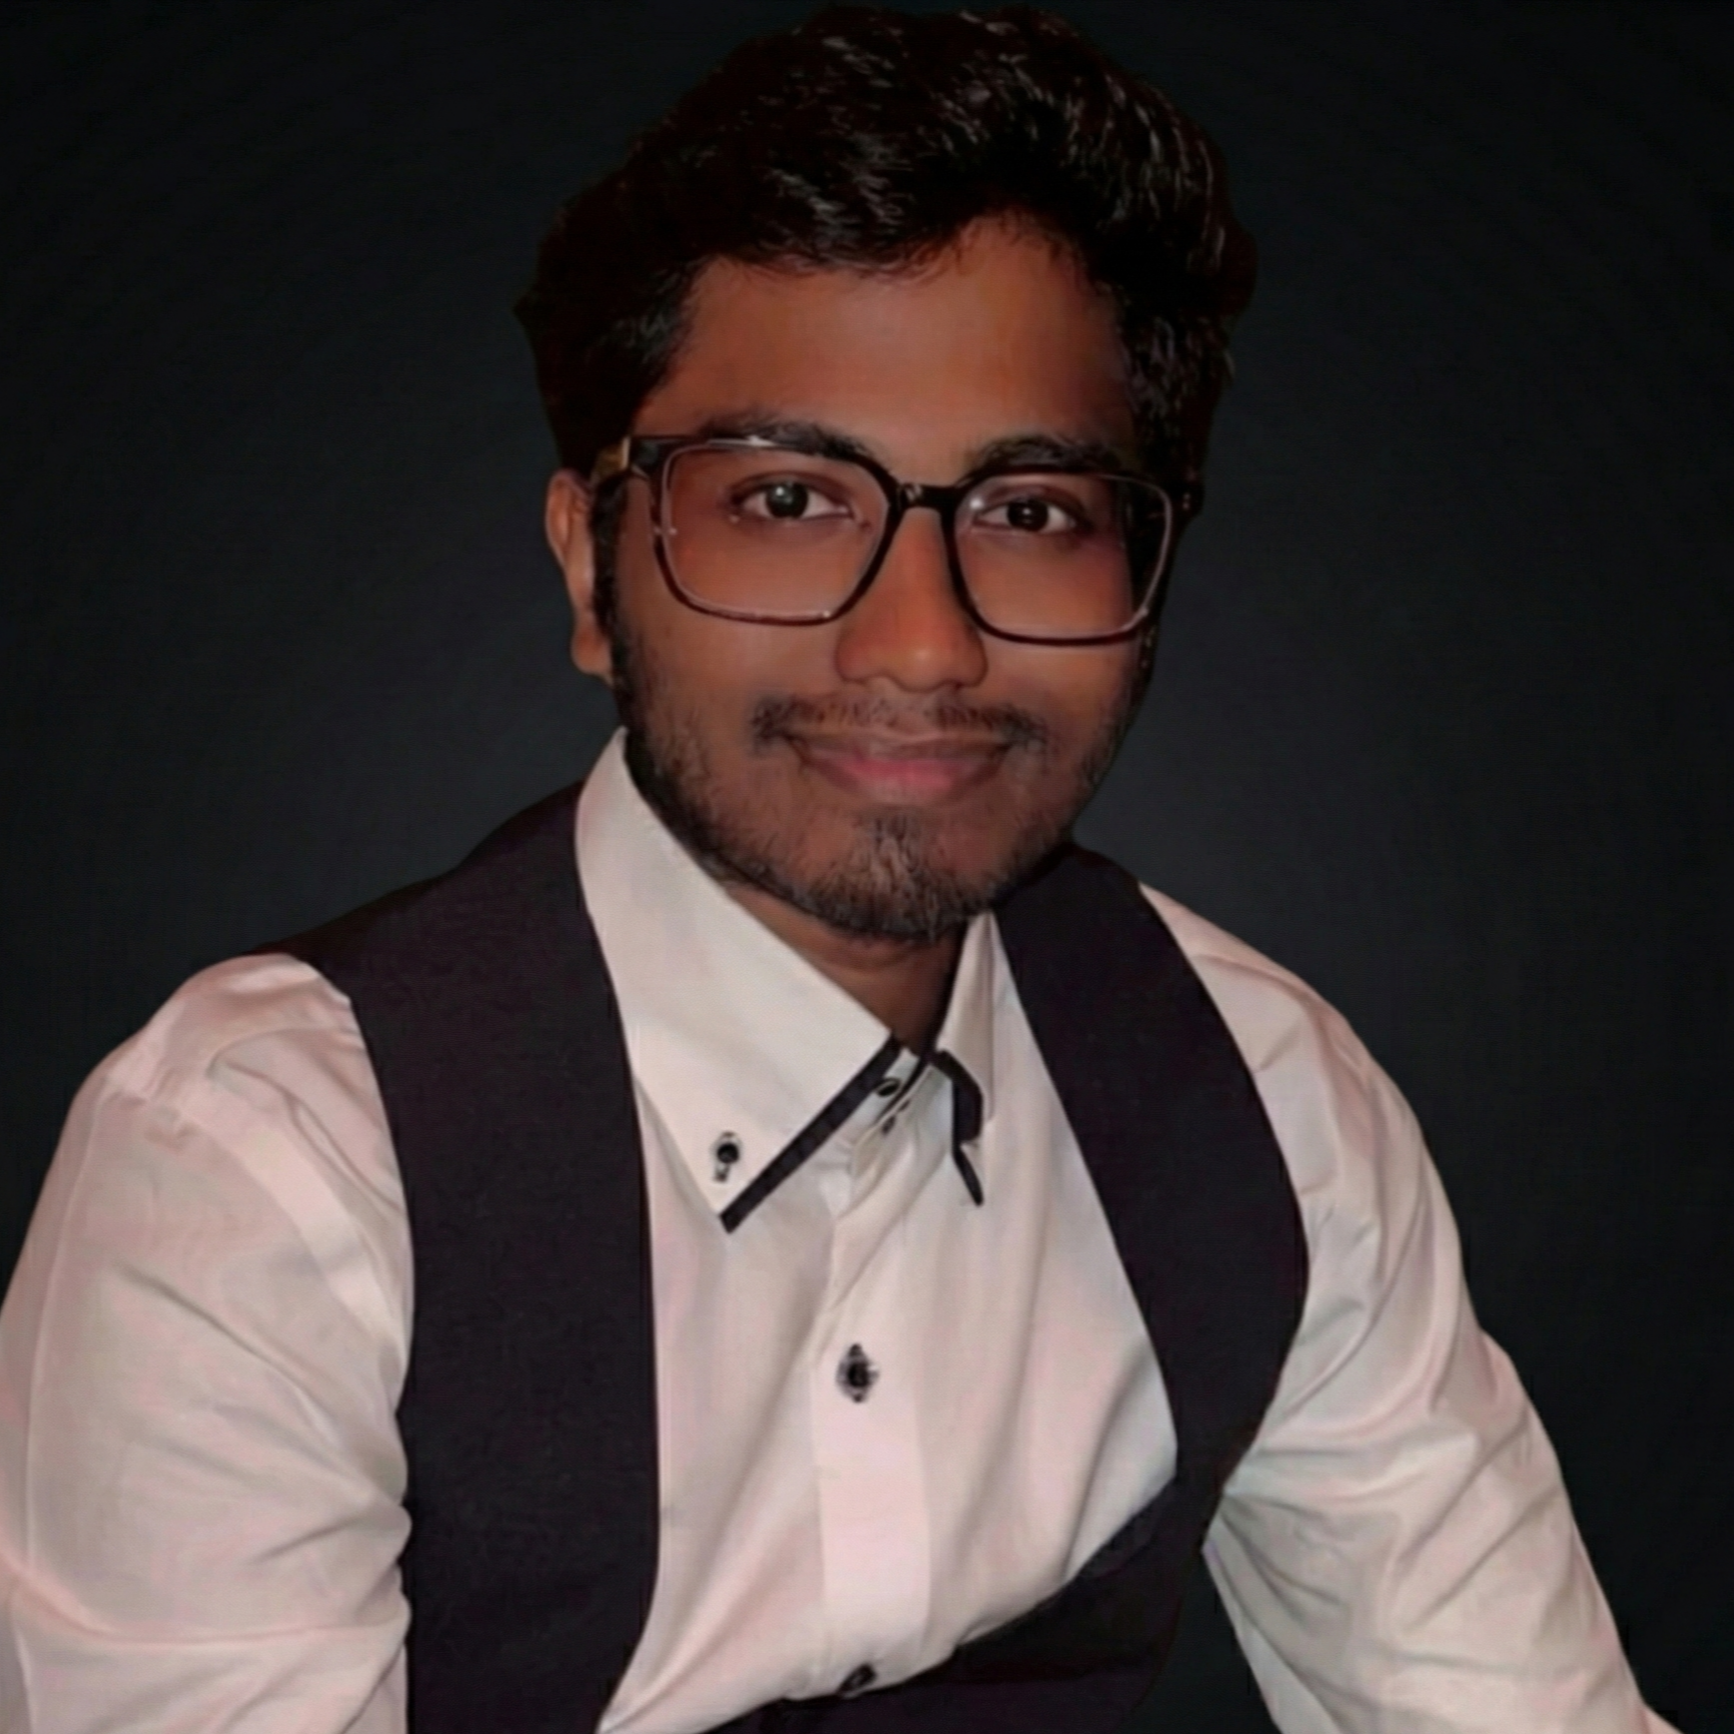
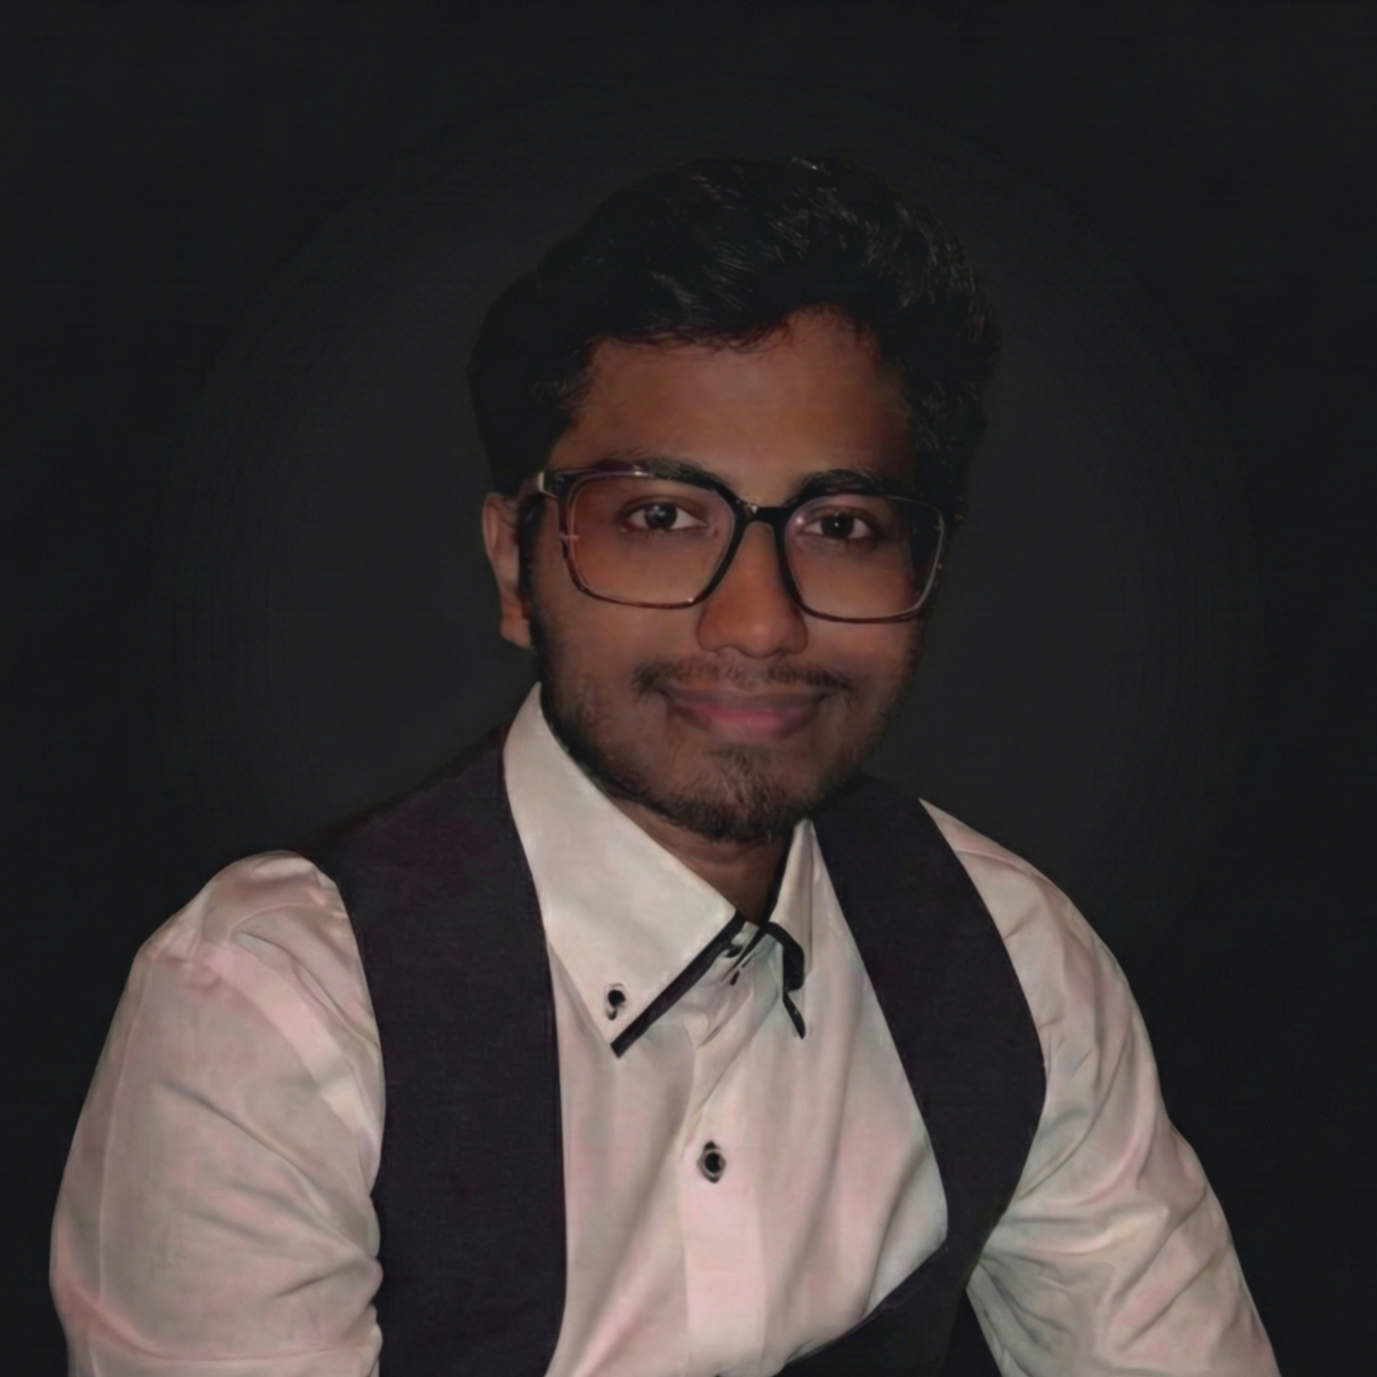
cluster map fixed, profile photo fix

diff --git a/_pages/about.md b/_pages/about.md
@@ -35,11 +35,9 @@ redirect_from:
 
 <br><br>
 <div style="display: flex; justify-content: center; align-items: center; margin: 2.5rem 0;">
-  <div style="border: 2px solid #fff; border-radius: 18px; padding: 1.5rem 2rem; box-shadow: 0 8px 32px 0 rgba(31, 38, 135, 0.15); display: flex; flex-direction: column; align-items: center; transition: background 0.3s;">
-    <div style="width: 600px; max-width: 90vw; text-align: center;">
-      <a href="https://mapmyvisitors.com/web/1c1hj"  title="Visit tracker"><img src="https://mapmyvisitors.com/map.png?d=6BSzSFZb7Nts2fXjYsHIGArPqNB0JnlmrsyTM3VVGmg&cl=ffffff" alt="ClustrMaps" />
+  <div style="border: 2px solid #fff; border-radius: 18px; overflow: hidden; box-shadow: 0 8px 32px 0 rgba(31, 38, 135, 0.15); display: flex; flex-direction: column; align-items: center; transition: background 0.3s;">
+      <a href="https://mapmyvisitors.com/web/1c1hj" title="Visit tracker"><img src="https://mapmyvisitors.com/map.png?d=6BSzSFZb7Nts2fXjYsHIGArPqNB0JnlmrsyTM3VVGmg&cl=ffffff" style="width: 600px; max-width: 90vw; display: block;" alt="ClustrMaps" />
       </a>
-    </div>
   </div>
 </div>
 
